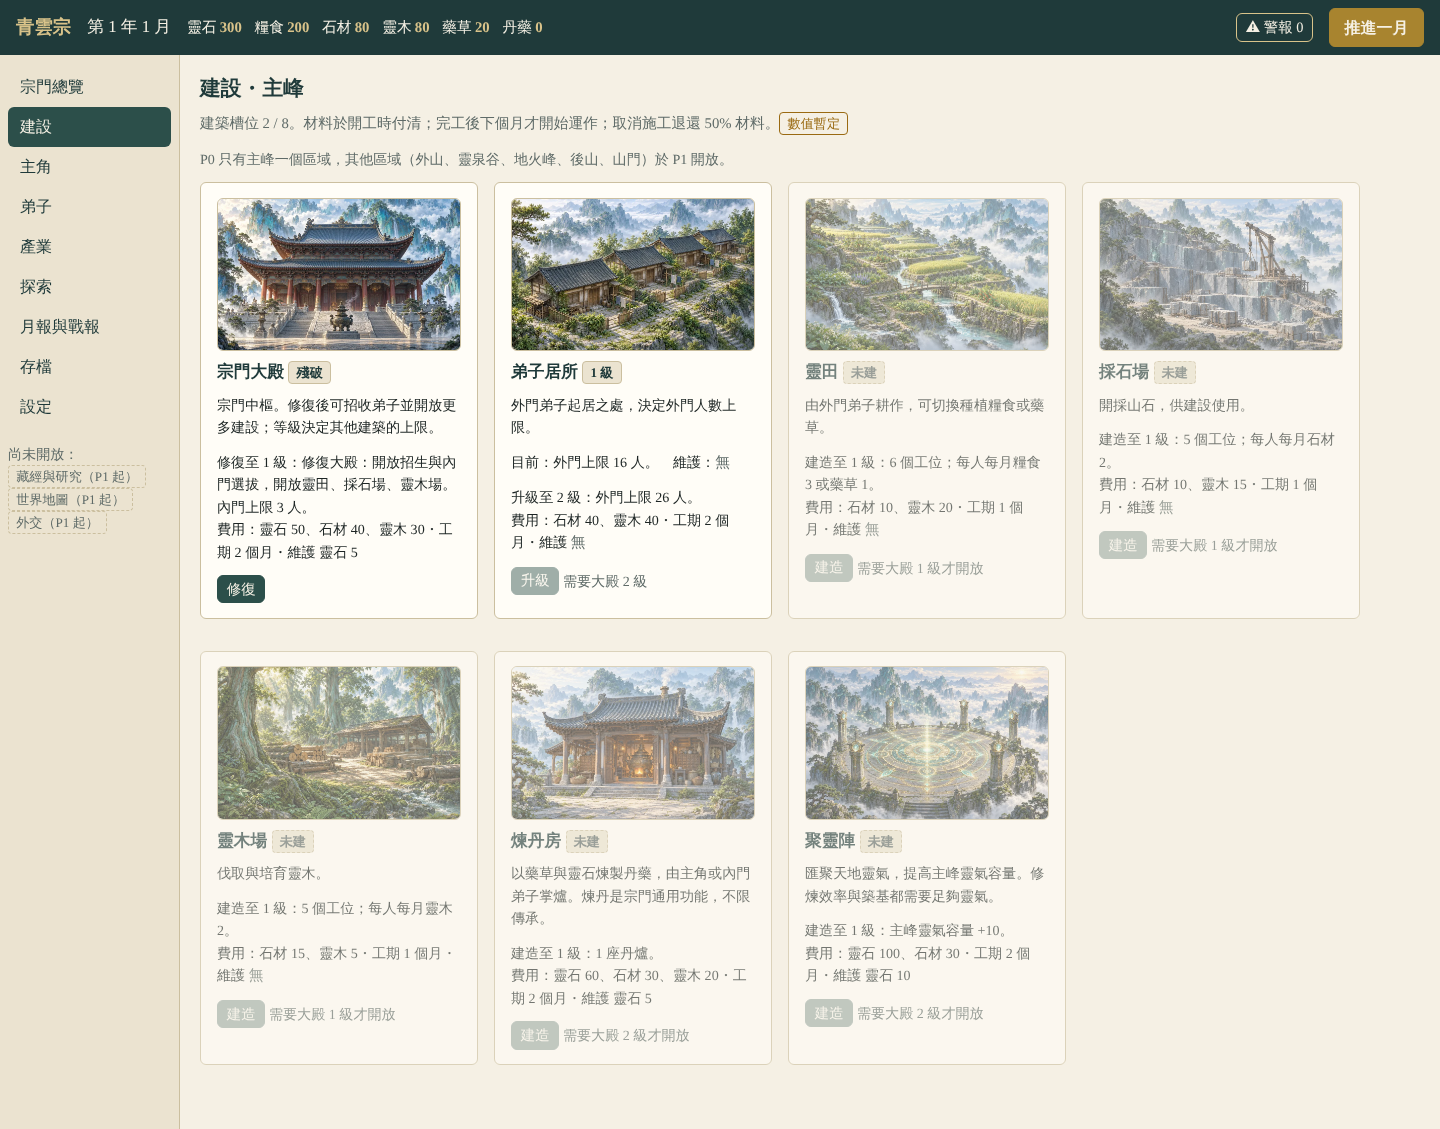
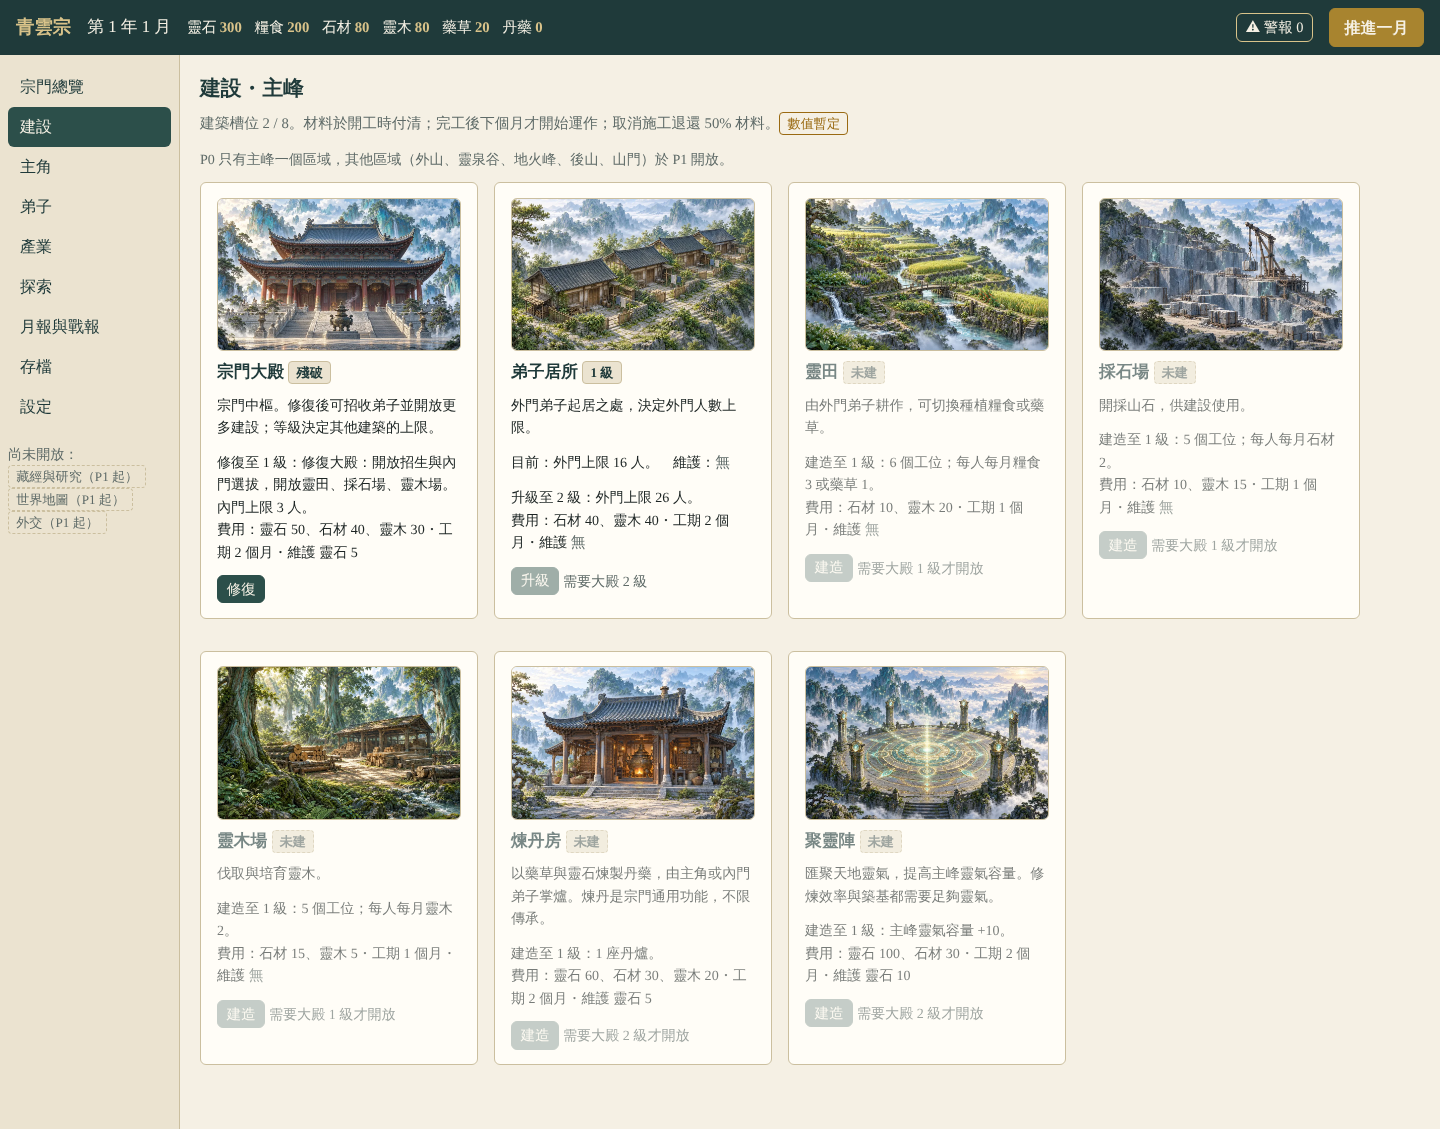
Keep locked building art at full color and make unbuilt hotspots easier to read
Claude-Session: https://claude.ai/code/session_01L5vhsTs521W4E5y78Q8Tn4

Changed region(s): [[0.125, 0.589, 0.75, 0.744], [0.5312, 0.155, 0.9375, 0.31]]

diff --git a/src/ui/theme/theme.css b/src/ui/theme/theme.css
@@ -110,7 +110,9 @@ td.num, th.num { text-align: right; font-variant-numeric: tabular-nums; }
   background: rgba(31,58,58,.88); color: var(--paper); border: 1px solid var(--gold-soft);
   border-radius: 4px; padding: .1rem .5rem; font-size: .85rem; cursor: pointer;
 }
-.panorama .spot.empty { background: rgba(245,240,228,.8); color: var(--muted); border-style: dashed; }
+.panorama .spot.empty { background: rgba(245,240,228,.94); color: var(--ink); border: 1px dashed var(--ink-2); box-shadow: 0 1px 3px rgba(0,0,0,.35); }
+/* 未開放的建築卡片：文字變淡，圖片維持原色 */
+.panel.locked > :not(.art) { opacity: .6; }
 
 .modal-back { position: fixed; inset: 0; background: rgba(20,30,30,.55); display: flex; align-items: center; justify-content: center; z-index: 50; padding: 1rem; }
 .modal { background: var(--paper); border-radius: var(--radius); max-width: 900px; width: 100%; max-height: 90vh; overflow: auto; padding: 1.2rem 1.4rem; border: 2px solid var(--gold); }

diff --git a/src/ui/pages/Build.tsx b/src/ui/pages/Build.tsx
@@ -22,7 +22,7 @@ export function BuildPage() {
           const locked = !existing && def.unlockHall > (game.buildings.find((b) => b.defId === 'building.hall')?.level ?? 0);
           const action = !existing ? '建造' : existing.level === 0 ? (def.id === 'building.hall' ? '修復' : '建造') : '升級';
           return (
-            <div key={def.id} className="panel" style={{ opacity: locked ? 0.6 : 1 }} data-testid={`building-${def.id}`}>
+            <div key={def.id} className={`panel${locked ? ' locked' : ''}`} data-testid={`building-${def.id}`}>
               <Art path={def.art} alt={def.name} />
               <h3 style={{ marginTop: '.5rem' }}>
                 {def.name}{' '}
